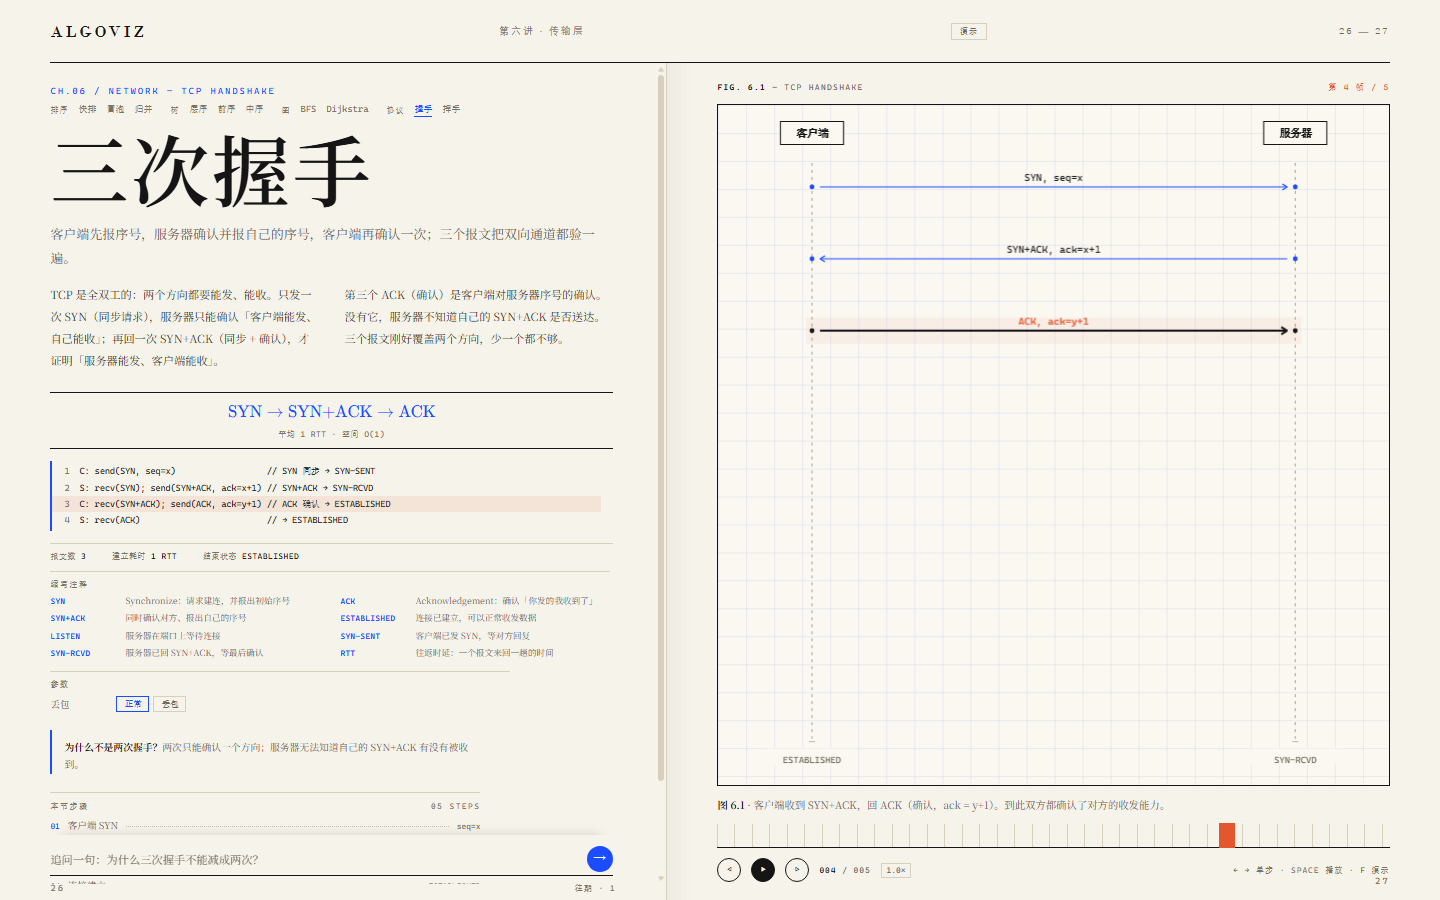
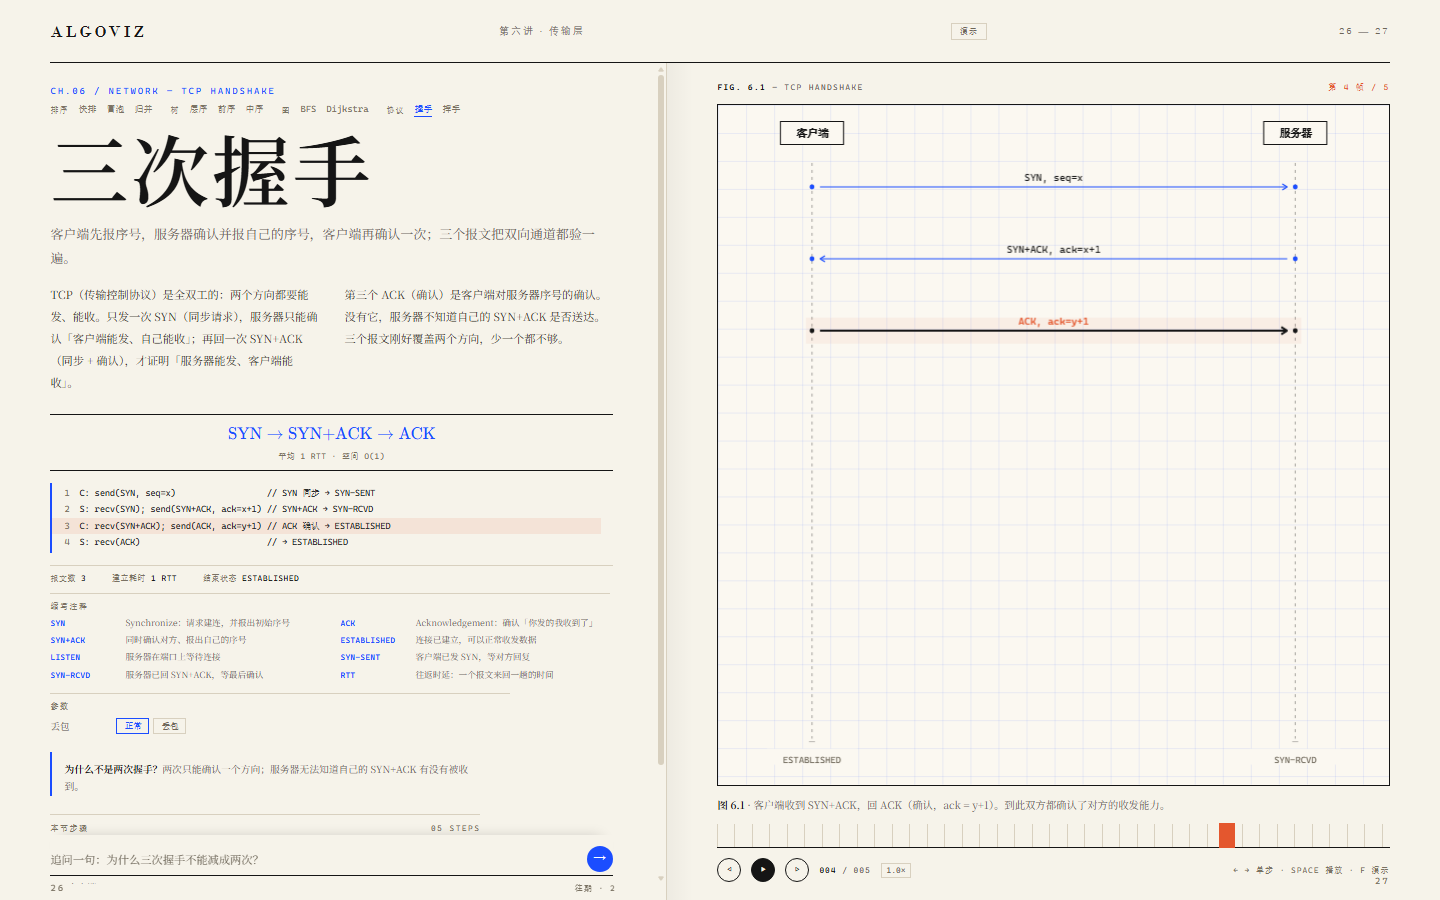
docs(network): spell out TCP and refresh the handshake figure

diff --git a/src/lib/engines/network.ts b/src/lib/engines/network.ts
@@ -260,7 +260,7 @@ const HANDSHAKE_SPEC: Spec = {
   pages: [26, 27],
   summary: '客户端先报序号，服务器确认并报自己的序号，客户端再确认一次；三个报文把双向通道都验一遍。',
   body: [
-    'TCP 是全双工的：两个方向都要能发、能收。只发一次 SYN（同步请求），服务器只能确认「客户端能发、自己能收」；再回一次 SYN+ACK（同步 + 确认），才证明「服务器能发、客户端能收」。',
+    'TCP（传输控制协议）是全双工的：两个方向都要能发、能收。只发一次 SYN（同步请求），服务器只能确认「客户端能发、自己能收」；再回一次 SYN+ACK（同步 + 确认），才证明「服务器能发、客户端能收」。',
     '第三个 ACK（确认）是客户端对服务器序号的确认。没有它，服务器不知道自己的 SYN+ACK 是否送达。三个报文刚好覆盖两个方向，少一个都不够。',
   ],
   formula: '\\text{SYN} \\to \\text{SYN+ACK} \\to \\text{ACK}',
@@ -296,7 +296,7 @@ const WAVE_SPEC: Spec = {
   pages: [28, 29],
   summary: '一方先发 FIN（结束请求），另一方先确认；等自己数据发完再发 FIN，最后再确认一次，连接才真正关闭。',
   body: [
-    '关闭比建立多一次，因为 TCP 连接是两个方向独立的。客户端说「我不发了」只是半关闭，服务器可能还有数据要发，所以先回 ACK（确认），等数据发完再发自己的 FIN（结束请求）。',
+    '关闭比建立多一次，因为 TCP（传输控制协议）连接是两个方向独立的。客户端说「我不发了」只是半关闭，服务器可能还有数据要发，所以先回 ACK（确认），等数据发完再发自己的 FIN（结束请求）。',
     '最后一个 ACK 由主动关闭方发出后，它还要在 TIME-WAIT（时间等待）等 2MSL（两倍报文寿命）：万一 ACK 丢了，对方重传 FIN 时还能再确认一次，也顺便让旧连接的残余报文在网络里消散。',
   ],
   formula: '\\text{FIN} \\to \\text{ACK} \\to \\text{FIN} \\to \\text{ACK}',
